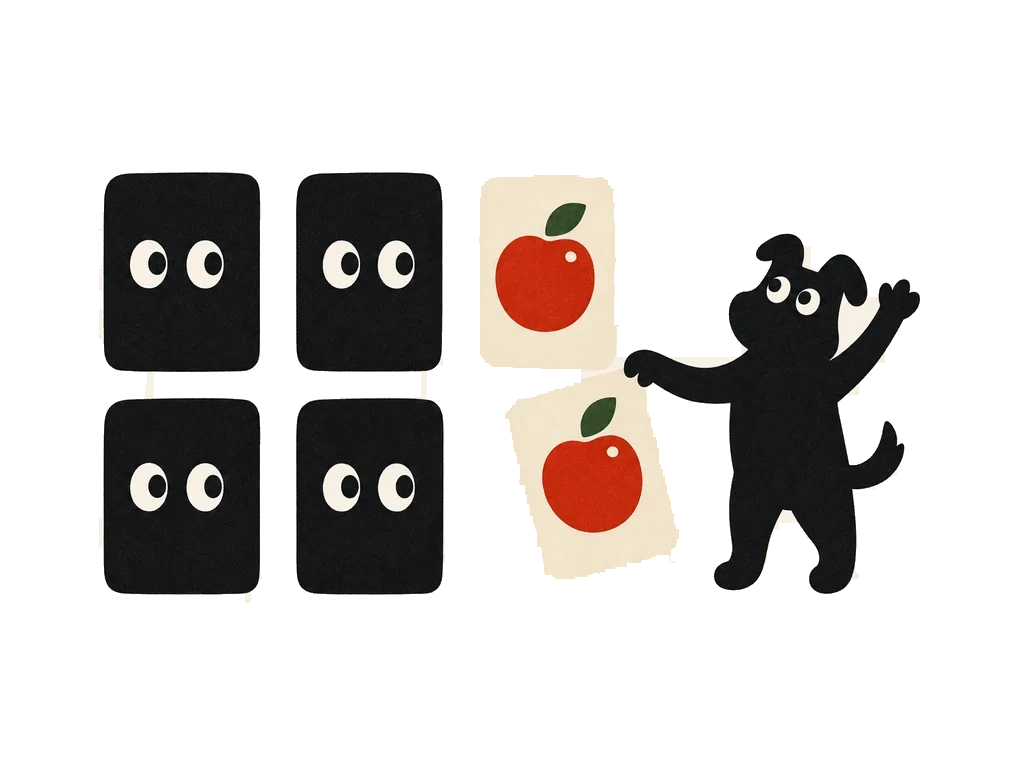
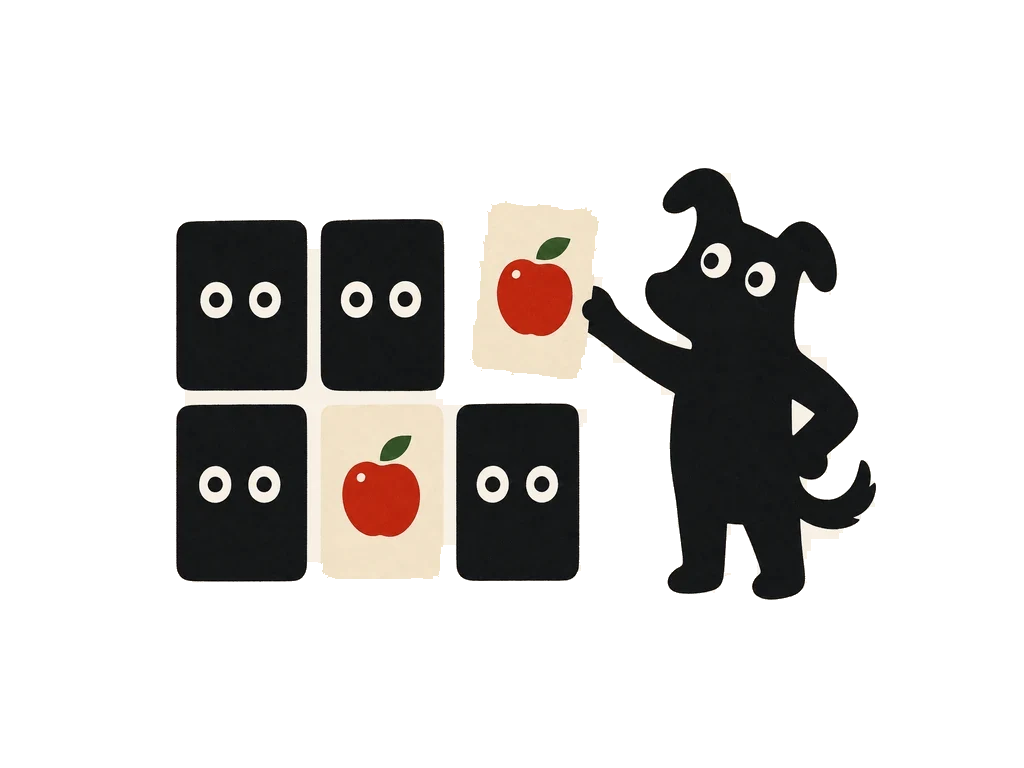
style(memory): 遊戲頁卡背改成阿黃同色，封面眼睛正視、左爪叉腰
- CardBack 的 #1f2937 改成插畫色板 black #0D0D0D，眼白改 paper-warm #F8F0E3
- 封面重生：卡背眼珠置中正視前方，阿黃右爪翻牌、左爪叉腰
- 參考圖從 lottery 封面換成姿勢中性的 barkley.webp，prompt 加姿勢規則：
  雙爪要忙著操作道具，除非場景需要否則不舉手（三張封面連鎖舉手的成因）

Claude-Session: https://claude.ai/code/session_01GuN3DyohRHvyktJEthNcbH

Changed region(s): [[0.0938, 0.2188, 0.9062, 0.7812]]

diff --git a/components/memory/CardBack.tsx b/components/memory/CardBack.tsx
@@ -1,7 +1,7 @@
-// 卡背：跟封面同一款——深色牌面、兩顆米白大眼。幾何照 scripts/gen-new-covers.py 的 memory() 量的。
+// 卡背：跟封面同一款——阿黃同色的黑牌面（插畫色板 black）、兩顆 paper-warm 大眼。幾何照封面量的。
 /* oxlint-disable jsx-a11y/prefer-tag-over-role */
-export const CARD_BACK_INK = "#1f2937";
-const CREAM = "#fcfbfc";
+export const CARD_BACK_INK = "#0D0D0D";
+const CREAM = "#F8F0E3";
 
 export function CardBack() {
   return (

diff --git a/scripts/gen-memory-cover.py b/scripts/gen-memory-cover.py
@@ -21,9 +21,9 @@ SIZE = (1024, 768)
 MARGIN = 0.10
 BG_TOL = 20  # 生成圖底色抖動 <1/通道，翻開的米白卡牌距離 >30，取中間
 OUT = pathlib.Path("public/images/covers/warm/memory.webp")
-REF = pathlib.Path("public/images/covers/warm/lottery.webp")
+REF = pathlib.Path("public/images/mascot/barkley.webp")  # 姿勢中性的參考圖，拿別張封面會把姿勢一起抄過來
 
-PROMPT = """Redraw this scene in EXACTLY the same illustration style as the attached reference image (same flat risograph-print look, same black dog mascot Barkley, same cream paper background).
+PROMPT = """Draw this scene in EXACTLY the same illustration style as the attached reference image of the black dog mascot Barkley (same flat risograph-print look, same character, cream paper background). Do NOT copy his pose from the reference; pose him as described below.
 
 THE ONE STYLE RULE: every object is ONE SOLID FLAT SHAPE with details KNOCKED OUT of it in cream. No outlines, no strokes, no gradients, no shadows, no 3D, no highlights. Chunky, slightly hand-drawn edges. Subtle print grain on every filled shape.
 
@@ -32,9 +32,9 @@ Barkley's black and the card backs' black are the SAME #0D0D0D.
 
 SCENE — a memory card matching game:
 Six rounded playing cards laid on the paper in a 3x2 grid, cards fairly large.
-Four cards are FACE DOWN: each is one solid black #0D0D0D rounded rectangle with two big cream eyes knocked out of it (two cream ovals, each with a black round pupil), like Barkley's own eyes — the card back is a little Barkley face.
+Four cards are FACE DOWN: each is one solid black #0D0D0D rounded rectangle with two big cream eyes knocked out of it (two cream ovals, each with a black round pupil sitting DEAD CENTRE in the oval, so the card looks STRAIGHT AT THE VIEWER — not glancing up or sideways), like Barkley's own eyes; the card back is a little Barkley face.
 Two cards are FACE UP: each is a cream #F8F0E3 rounded rectangle showing ONE solid red #CB2108 apple (a chunky round apple shape with a small solid green #2C5427 leaf, a tiny cream highlight dot knocked out is allowed). The two apples are identical: a matched pair.
-Barkley STANDS UPRIGHT on his hind legs at the right side, using his front paws as hands: one paw is flipping over the last face-up card, the other paw is raised in delight. Pure black silhouette with two cream eyes, fully inside the frame, not cropped. Keep a clear gap between his arms and torso; his paws must read clearly on top of the cream card.
+Barkley STANDS UPRIGHT on his hind legs at the right side, using his front paws as hands: his right paw reaches out and is flipping over a card; his left paw is planted ON HIS HIP, elbow bent out to the side, so a clear triangle of cream paper shows between that arm and his torso. No paw is raised above his shoulder. Pure black silhouette with two cream eyes, fully inside the frame, not cropped. Keep a clear gap between his arms and torso; his paws must read clearly on top of the cream card.
 
 CANVAS: landscape, cream #F8F0E3 background edge to edge, generous empty paper around everything. NO TEXT anywhere."""
 

diff --git a/docs/superpowers/specs/2026-09-02-home-redesign.md b/docs/superpowers/specs/2026-09-02-home-redesign.md
@@ -184,6 +184,8 @@ Firefox 穩定版還沒開 scroll-driven animations（藏在 `layout.css.scroll-
 ### 5.2 可重用的 prompt 模板
 
 生新圖時，把下面整段貼上，再接場景描述。參考圖用 `style-ref.png`（Barkley + 四塊色塊拼成一張）。
+參考圖要用**姿勢中性**的那張（`mascot/barkley.webp` 坐姿），不要拿別張封面當參考：模型會連姿勢一起抄，
+2026-09-07 抽籤機、轉盤、記憶遊戲三張封面阿黃都在舉手，就是這樣連鎖出來的。
 
 ```
 Generate N card cover images for a Taiwanese children's education website.
@@ -216,6 +218,10 @@ two front paws as HANDS. He is a pure black silhouette with two cream eyes.
 LEGIBILITY: his black paws must read clearly ON TOP of colored props — the color stays visible
 around them. Always keep a clear gap between his arms and his torso. Never let paws, arms and
 body merge into one unreadable black mass.
+
+POSE: both paws are BUSY WITH THE PROPS of the scene (holding, pushing, flipping, pointing).
+A paw goes up ONLY when the scene itself says so (holding a coin overhead, throwing a die).
+Never a free paw raised in greeting, cheering or delight — that is the default pose to avoid.
 
 FRAMING (every image): Barkley fully inside the frame, never cropped at the edge. 5 objects
 maximum, generous empty paper. Shown at ~260px wide, so no fine detail.
